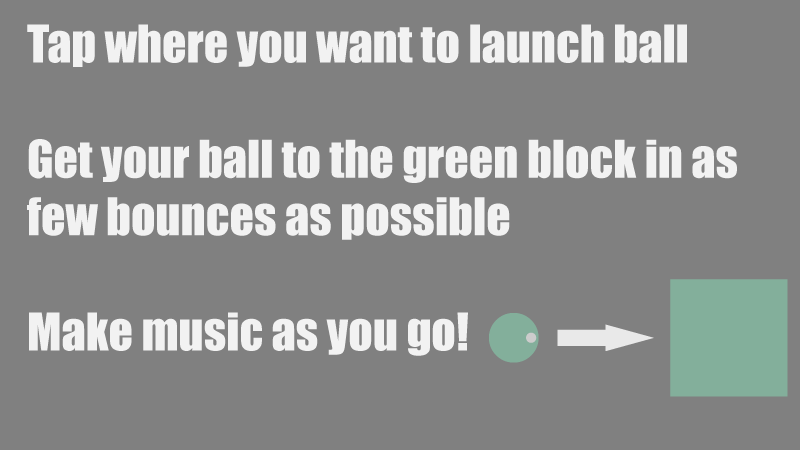
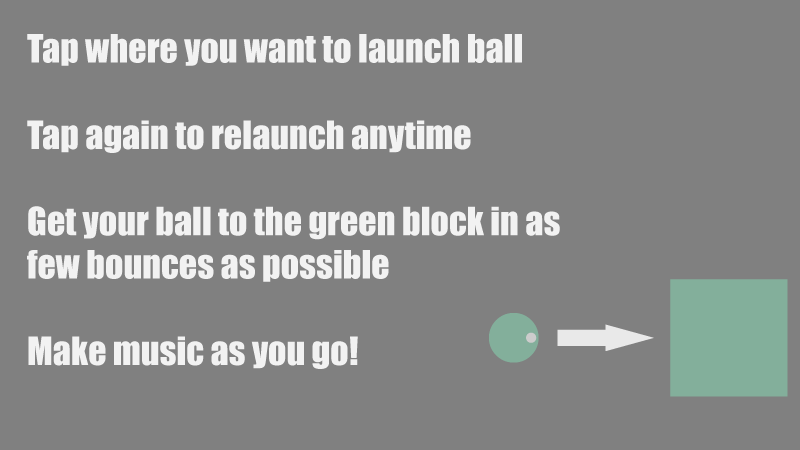
complete game working! now on to level design and maybe a music vamp if possible

diff --git a/src/SCTMXTiledScene.js b/src/SCTMXTiledScene.js
@@ -34,6 +34,8 @@ var SCTileLayer = cc.Layer.extend({
     	this.HUDLayer.setPosition(cc.p(0,0));
     	this.addChild(this.HUDLayer, 999, this.gameConfig.globals.TAG_HUDLAYER);
     	
+    	this.score = new SCScore();
+    	this.totalScore = new SCScore();
     	
     	var tileMap = this.loadTileMap();
     	this.gameLayer.addChild(tileMap, 0, this.gameConfig.globals.TAG_TILE_MAP);
@@ -47,7 +49,7 @@ var SCTileLayer = cc.Layer.extend({
        
         // Make a physics layer
         var physicsLayer = new SCBox2dLayer();
-        physicsLayer.initWithMap(tileMap, this.synth, this.mediator, this);
+        physicsLayer.initWithMap(tileMap, this.synth, this.mediator, this, this.score, this.totalScore);
         physicsLayer.setPosition(this.gameConfig.Box2dLayer.position);
         this.gameLayer.addChild(physicsLayer, 1000, this.gameConfig.globals.TAG_BOX2D_LAYER);
        
@@ -90,16 +92,25 @@ var SCTileLayer = cc.Layer.extend({
        	*/
        	
        	
-       	this.timer = new SCTimer();
-       	this.timer.setPosition(this.gameConfig.timer.position);
-       	entities.push(this.timer);
-       	this.HUDLayer.addChild(this.timer, 95, this.gameConfig.globals.TAG_TIMER);
+       	//this.timer = new SCTimer();
+       	//this.timer.setPosition(this.gameConfig.timer.position);
+       //	entities.push(this.timer);
+       	//this.HUDLayer.addChild(this.timer, 95, this.gameConfig.globals.TAG_TIMER);
        	
-       	this.score = new SCScore();
+       	
        	this.score.setPosition(this.gameConfig.score.position);
+       	this.score.setScoreLabel("Level Score ");
         entities.push(this.score);
        	this.HUDLayer.addChild(this.score, 96, this.gameConfig.globals.TAG_SCORE);
        	
+       	
+       	this.totalScore.setPosition(this.gameConfig.totalScore.position);
+       	this.totalScore.setScore(cc.Director.getInstance().gameConfig.sessionData.score);
+       	this.totalScore.setScoreLabel("Total Score ");
+       	entities.push(this.totalScore);
+       	this.HUDLayer.addChild(this.totalScore, 96, this.gameConfig.globals.TAG_TOTAL_SCORE);
+       	
+       	/*
        	this.customer = new SCCustomer();
        	this.customer.setPosition(this.gameConfig.customer.position);
         entities.push(this.customer);
@@ -110,6 +121,7 @@ var SCTileLayer = cc.Layer.extend({
        	this.sign.setPosition(this.gameConfig.sign.position);
         entities.push(this.sign);
        	this.HUDLayer.addChild(this.sign, 96, this.gameConfig.globals.TAG_PRICE);
+       	*/
        
     /*
        	// Register callbacks
@@ -260,10 +272,11 @@ var SCTileLayer = cc.Layer.extend({
     },
     
     updateHUD:function(dt){  
-      	this.timer.update(dt);
+      	//this.timer.update(dt);
 	    this.score.update();
-	    this.customer.update();
-	    this.sign.update();
+	    this.totalScore.update();
+	    //this.customer.update();
+	    //this.sign.update();
     },
     
     //callback for the time being over
@@ -310,6 +323,7 @@ var SCTileLayer = cc.Layer.extend({
 	    if(level < 2){
         	var director = cc.Director.getInstance();
         	cc.Director.getInstance().gameConfig.sessionData.level += 1;
+        	cc.Director.getInstance().gameConfig.sessionData.score = this.totalScore.getScore();
         	cc.log("Director.isCleanupToScene = " + director.isSendCleanupToScene());
         	cc.AnimationCache.purgeSharedAnimationCache();
         	cc.SpriteFrameCache.purgeSharedSpriteFrameCache();
@@ -318,6 +332,7 @@ var SCTileLayer = cc.Layer.extend({
         }else{
 	        var director = cc.Director.getInstance();
         	cc.Director.getInstance().gameConfig.sessionData.level += 1;
+        	cc.Director.getInstance().gameConfig.sessionData.score = this.totalScore.getScore();
         	cc.log("Director.isCleanupToScene = " + director.isSendCleanupToScene());
         	cc.AnimationCache.purgeSharedAnimationCache();
         	cc.SpriteFrameCache.purgeSharedSpriteFrameCache();

diff --git a/src/SCGameConfig.js b/src/SCGameConfig.js
@@ -120,7 +120,7 @@ var SCGameConfig = cc.Class.extend({
    		this.sessionData = {
 	   					"score":0,
 	   					"level":1,
-	   					"bestScore":0
+	   					"bestScore":9999999999
 	   				};
    					
    		this.Box2dLayer = {
@@ -165,7 +165,9 @@ var SCGameConfig = cc.Class.extend({
 						"TAG_CAR_ENTITY":14,
 						"TAG_BOX2D_LAYER":15,
 						"TAG_SPRITE_MANAGER":16,
-						"TAG_BOX2D_STATIC":17
+						"TAG_BOX2D_STATIC":17,
+						"TAG_TOTAL_SCORE":18,
+						"TAG_BEST_SCORE":19
    		};
    		
    		this.timer = {	
@@ -175,9 +177,16 @@ var SCGameConfig = cc.Class.extend({
    					};
    					
    		this.score = {	
-	   					"position":cc.p(200,440),
+	   					"position":cc.p(100,424),
 	   					"alignment":cc.TEXT_ALIGNMENT_LEFT
    					};
+   					
+   		this.totalScore = {	
+	   					"position":cc.p(700,424),
+	   					"alignment":cc.TEXT_ALIGNMENT_RIGHT
+   					};
+   					
+   					
    					
    		this.customer = {	
 	   					"position":cc.p(740,10)
@@ -195,10 +204,20 @@ var SCGameConfig = cc.Class.extend({
 	   					"menuPosition":cc.p(400,100)
    					};
    					
+   		this.gameInstructionsScene = {	
+	   					"backgroundTexture":cc.TextureCache.getInstance().addImage(s_instructionBG),
+	   					"backgroundTextureRect":cc.rect(0, 0, 800, 450),
+	   					"backgroundPosition":cc.p(400,225),
+	   					"totalScorePosition":cc.p(400,230),
+	   					"bestScorePosition":cc.p(400,140)	
+   					};
+   					
    		this.gameEndScene = {	
 	   					"backgroundTexture":cc.TextureCache.getInstance().addImage(s_endTempBG),
 	   					"backgroundTextureRect":cc.rect(0, 0, 800, 450),
-	   					"backgroundPosition":cc.p(400,225)
+	   					"backgroundPosition":cc.p(400,225),
+	   					"totalScorePosition":cc.p(400,230),
+	   					"bestScorePosition":cc.p(400,140)	
    					};
 
    					

diff --git a/src/SCEndScene.js b/src/SCEndScene.js
@@ -26,7 +26,25 @@ var SCEnd = cc.Layer.extend({
     	background.setPosition(this.gameConfig.gameMenuScene.backgroundPosition);
     	this.addChild(background, -999, this.gameConfig.globals.TAG_MENU_BACKGROUND);
       
-        
+    	// add round score and best score
+    	this.score = new SCScore();
+        this.score.setPosition(this.gameConfig.gameEndScene.totalScorePosition);
+       	this.score.setScoreLabel("Score   ");
+       	this.score.setFontSize(48);
+        this.score.setScore(cc.Director.getInstance().gameConfig.sessionData.score);
+       	this.addChild(this.score, 96, this.gameConfig.globals.TAG_SCORE);
+       	this.score.update();
+       	
+       	this.bestScore = new SCScore();
+        this.bestScore.setPosition(this.gameConfig.gameEndScene.bestScorePosition);
+       	this.bestScore.setScoreLabel("Best Score   ");
+       	this.bestScore.setFontSize(48);
+        if(cc.Director.getInstance().gameConfig.sessionData.score < cc.Director.getInstance().gameConfig.sessionData.bestScore){
+        		 cc.Director.getInstance().gameConfig.sessionData.bestScore =  cc.Director.getInstance().gameConfig.sessionData.score
+        	}
+        this.bestScore.setScore(cc.Director.getInstance().gameConfig.sessionData.bestScore);
+       	this.addChild(this.bestScore, 96, this.gameConfig.globals.TAG_BEST_SCORE);
+       	this.bestScore.update();
                 
         return true;
     },
@@ -43,6 +61,8 @@ var SCEnd = cc.Layer.extend({
         }
     },
     onTouchesEnded:function (touches, event) {
+    
+    	cc.Director.getInstance().gameConfig.sessionData.score = 0;
         this.isMouseDown = false;
         var director = cc.Director.getInstance();
         //cc.AnimationCache.purgeSharedAnimationCache();

diff --git a/src/SCInstructions.js b/src/SCInstructions.js
@@ -1,4 +1,4 @@
-var SCGameMenu = cc.Layer.extend({
+var SCInstructions = cc.Layer.extend({
     isMouseDown:false,
 
     onEnter:function () {
@@ -17,8 +17,8 @@ var SCGameMenu = cc.Layer.extend({
         this.gameConfig  = new SCGameConfig();
         
         
-        var background = new cc.Sprite(this.gameConfig.gameMenuScene.backgroundTexture);     
-    	background.setPosition(this.gameConfig.gameMenuScene.backgroundPosition);
+        var background = new cc.Sprite(this.gameConfig.gameInstructionsScene.backgroundTexture);     
+    	background.setPosition(this.gameConfig.gameInstructionsScene.backgroundPosition);
     	this.addChild(background, -999, this.gameConfig.globals.TAG_MENU_BACKGROUND);
         /*
         var title = new cc.Sprite(this.gameConfig.gameMenuScene.titleTexture);     
@@ -80,16 +80,16 @@ var SCGameMenu = cc.Layer.extend({
         cc.SpriteFrameCache.purgeSharedSpriteFrameCache();
         cc.TextureCache.purgeSharedTextureCache();
         //director.purgeDirector();
-        director.replaceScene(new SCInstructionsScene);
+        director.replaceScene(new Level1);
         cc.log("Director.isCleanupToScene = " + director.isSendCleanupToScene());
     }
 });
 
 // This is called in main.js to load the main game menu
-var SCGameMenuScene = cc.Scene.extend({
+var SCInstructionsScene = cc.Scene.extend({
     onEnter:function () {
         this._super();
-        var layer = new SCGameMenu();
+        var layer = new SCInstructions();
        // layer.init();
         this.addChild(layer);
     }

diff --git a/src/SCBox2dLayer.js b/src/SCBox2dLayer.js
@@ -34,10 +34,12 @@ var SCBox2dLayer = cc.Layer.extend({
         this.gameConfig = new SCGameConfig();
         this.synth = null;
         this.globalMediator = null;   
-        this.parentScene = null;     
+        this.parentScene = null;  
+        this.score = null;
+        this.totalScore = null;   
     },
     
-    initWithMap:function(map, synth, mediator, scene){
+    initWithMap:function(map, synth, mediator, scene, score, totalScore){
         var b2Vec2 = Box2D.Common.Math.b2Vec2
             , b2BodyDef = Box2D.Dynamics.b2BodyDef
             , b2Body = Box2D.Dynamics.b2Body
@@ -57,6 +59,9 @@ var SCBox2dLayer = cc.Layer.extend({
         this.globalMediator = mediator;
         
         this.parentScene = scene;
+        
+        this.score = score;
+        this.totalScore = totalScore;
 
         // listen for beginning of all body collisions
         var listener = new Box2D.Dynamics.b2ContactListener;
@@ -512,6 +517,8 @@ var SCBox2dLayer = cc.Layer.extend({
 	                //cc.log("SCBox2DLayer update() ActorID = " + myActor.ID + " note = " + myActor.note);
 	                this.synth.playNote(myActor.note);
 	                myActor.playNote = false;
+	                this.score.incrementScore();
+	                this.totalScore.incrementScore();
                 }
                 
                 if(myActor.endLevel){

diff --git a/src/SCScore.js b/src/SCScore.js
@@ -5,19 +5,43 @@ var SCScore= SCEntity.extend({
 		this._super(filename);
     	cc.log("SCScore ctor()");
     	this.gameConfig = new SCGameConfig();
-    	this.score = 000000;
-    	this.scoreText = cc.LabelTTF.create("000000", "Arial", 16);
+    	this.score = 000;
+    	this.scoreLabel = "Score ";
+    	this.scoreText = cc.LabelTTF.create("000000", "Impact", 26);
     	this.scoreText.setHorizontalAlignment(this.gameConfig.score.alignment);
         this.scoreText.setColor(new cc.Color3B(255,255,255));
         this.scoreText.visible = true;
         this.scoreText.setPosition(cc.p(0, 0));
         this.addChild(this.scoreText, 99);
     },
+    
+    setScore:function(score){
+	    this.score = score;
+    },
+    
+    getScore:function(){
+		return this.score;    
+    },
+    
+    setFontSize:function(size){
+	    this.scoreText.setFontSize(size);
+    },
+    
+    incrementScore:function(){
+	   	this.score++;  
+    },
+    
+    setScoreLabel:function(text){
+	  this.scoreLabel = text;
+	    
+    },
+    
+    
 
     
     update:function(dt){
     	this.timeLeft -= dt;
-    	this.scoreText.setString("$$$ " + (Math.ceil(this.score)));
+    	this.scoreText.setString(this.scoreLabel + (Math.ceil(this.score)));
     }
 
 });

diff --git a/src/resource.js b/src/resource.js
@@ -24,9 +24,10 @@ var s_MenuAbout = "res/images/menu/about.png";
 var s_MenuSite = "res/images/menu/site.png";
 var s_MenuTitle = "res/images/menu/title.png";
 
+var s_instructionBG = "res/images/menu/Instructions.png";
 
 var s_endBG = "res/images/menu/end-screen.png";
-var s_endTempBG = "res/images/menu/end-screen-template.png";
+var s_endTempBG = "res/images/menu/end-screen.png";
 
 
 var s_TestTilesheet = "res/tilemaps/test-tilemap-tilesheet.png";
@@ -64,6 +65,7 @@ var g_ressources = [
     {type:"image", src:s_MenuAbout},
     {type:"image", src:s_MenuSite},
     {type:"image", src:s_MenuTitle},
+    {type:"image", src:s_instructionBG},
     {type:"image", src:s_endBG},
     {type:"image", src:s_endTempBG},
     {type:"image", src:s_pathBlock},

diff --git a/cocos2d.js b/cocos2d.js
@@ -64,6 +64,7 @@
             'src/SCTMXTiledScene.js',
             'src/SCSceneManager.js',
             'src/SCGameMenu.js',
+            'src/SCInstructions.js',
             'src/SCEndScene.js',
             'src/SCGameInit.js',
             'src/Box2dTest.js'
